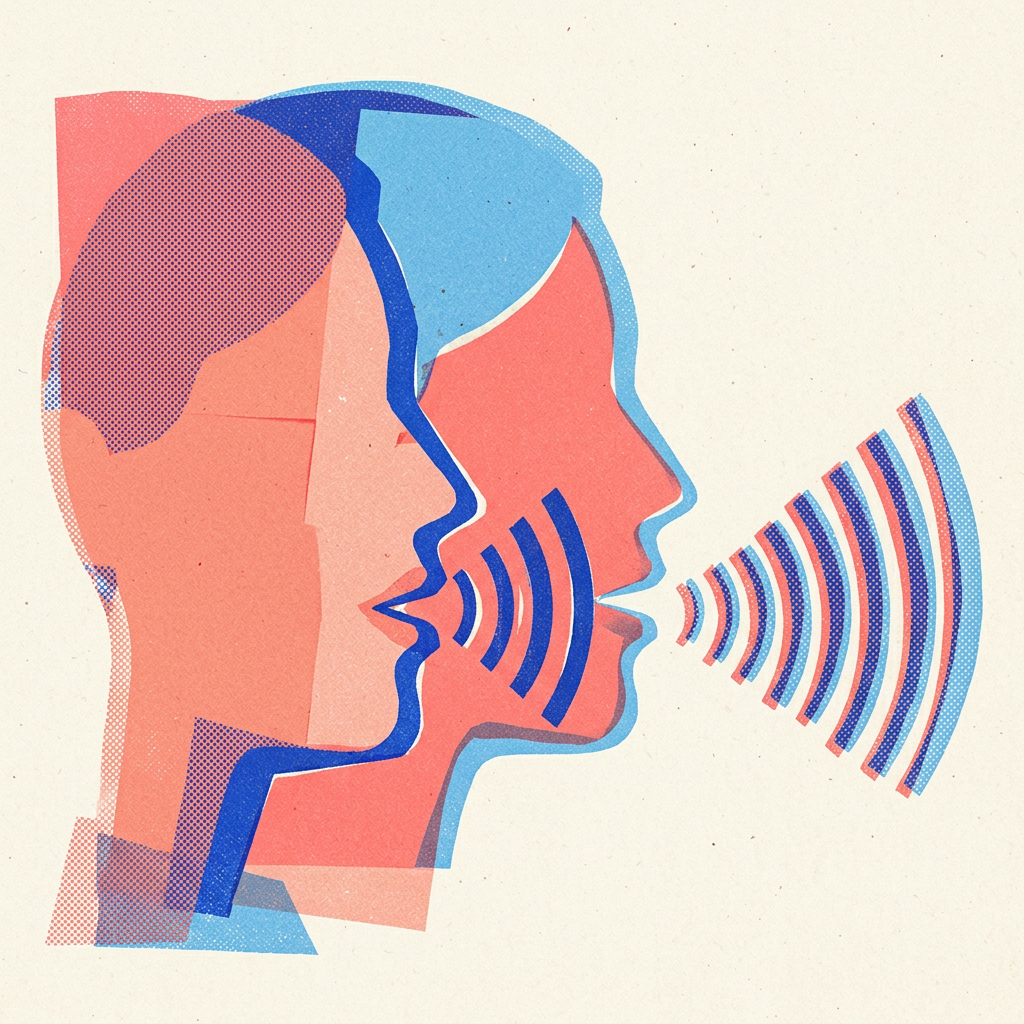
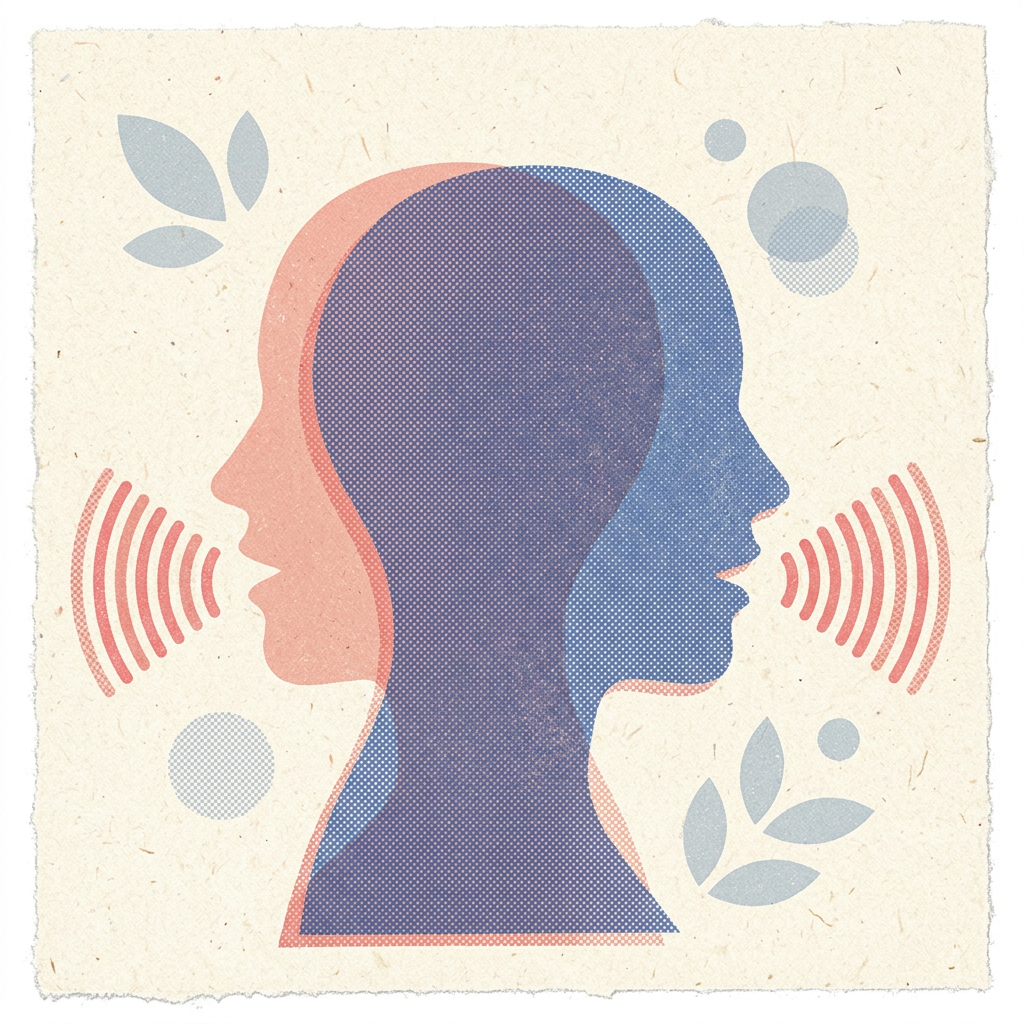
Enlarge hero title, put feature images on right, use muted overlapping-voices art, shorten step images

diff --git a/intro-fx.css b/intro-fx.css
@@ -31,7 +31,7 @@
 .fx-features .feature-grid { display: flex; flex-direction: column; gap: 28px; padding-bottom: 8vh; margin-top: 36px; }
 .fx-features .feature-card {
   position: sticky; top: calc(24px + var(--i) * 22px);
-  display: grid; grid-template-columns: minmax(0, 0.9fr) minmax(0, 1.1fr);
+  display: grid; grid-template-columns: minmax(0, 1.1fr) minmax(0, 0.9fr);
   min-height: 300px; padding: 0; border-radius: 26px; overflow: hidden;
   transform-origin: top center;
   transform: scale(calc(1 - var(--shrink, 0) * .06));
@@ -43,7 +43,7 @@
 .fx-ready .fx-features .feature-card[data-reveal].is-in { translate: 0 0; }
 .fx-features .feature-card.is-focus { border-color: var(--accent); box-shadow: 0 6px 0 var(--accent); }
 
-.feature-media { position: relative; overflow: hidden; background: var(--surface3); }
+.feature-media { position: relative; overflow: hidden; background: var(--surface3); order: 2; }
 .feature-media img { position: absolute; inset: 0; width: 100%; height: 100%; object-fit: cover; scale: 1.18; transition: scale 1.6s cubic-bezier(.2,.7,.2,1); }
 .feature-card.is-in .feature-media img { scale: 1; }
 .feature-card.is-focus .feature-media img { animation: fxDrift 9s ease-in-out infinite alternate; }
@@ -227,7 +227,7 @@
 .fx-steps[data-fx="e"] .step-body { width: min(360px, 100%); padding: 8px 8px 14px; }
 .fx-steps[data-fx="e"] .step-body > :not(.step-img) { padding: 0 10px; }
 .fx-steps[data-fx="e"] .step-img {
-  display: block; width: 100%; height: auto; aspect-ratio: 4 / 3; object-fit: cover;
+  display: block; width: 100%; height: auto; aspect-ratio: 16 / 9; object-fit: cover;
   border-radius: 14px; margin-bottom: 12px; background: var(--surface3);
 }
 .fx-steps[data-fx="e"] .step-item:nth-child(even) .step-img { border: 1px solid rgba(255,255,255,.12); }
@@ -290,7 +290,7 @@ body.is-authed .fx-switcher { display: none; }
   .steps-ring-num { font-size: 52px; }
 }
 @media (max-width: 640px) {
-  .fx-features .feature-card { position: relative; top: auto; grid-template-columns: minmax(0, .8fr) minmax(0, 1.2fr); min-height: 220px; transform: none; filter: none; }
+  .fx-features .feature-card { position: relative; top: auto; grid-template-columns: minmax(0, 1.2fr) minmax(0, .8fr); min-height: 220px; transform: none; filter: none; }
   .fx-features .feature-body { padding: 22px 18px 20px; }
   .fx-features .feature-num { top: 14px; right: 16px; font-size: 44px; }
   .fx-features .feature-icon { width: 44px; height: 44px; border-radius: 12px; }

diff --git a/intro.css b/intro.css
@@ -50,7 +50,7 @@ body.is-guest .authed-only { display: none !important; }
 .intro-lead { font-size: 15px; color: var(--text-sub); line-height: 1.8; margin-top: 10px; max-width: 560px; text-wrap: pretty; }
 
 .hero { display: flex; flex-direction: column; justify-content: center; gap: 40px; padding-top: 56px; min-height: calc(100svh - 64px); }
-.hero-title { font-size: clamp(36px, 5.4vw, 76px); font-weight: 800; letter-spacing: -0.04em; line-height: 1.08; color: var(--text); margin-top: 22px; }
+.hero-title { font-size: clamp(40px, 6vw, 84px); font-weight: 800; letter-spacing: -0.04em; line-height: 1.08; color: var(--text); margin-top: 22px; }
 .hero-title em { font-style: normal; color: var(--accent); }
 .hero-sub { font-size: clamp(16px, 1.6vw, 19px); color: var(--text-sub); line-height: 1.8; margin-top: 22px; max-width: 600px; text-wrap: pretty; }
 .hero-ctas { display: flex; flex-wrap: wrap; gap: 12px; margin-top: 28px; }
@@ -120,7 +120,7 @@ body.is-guest .authed-only { display: none !important; }
 .contact-wrap { display: grid; grid-template-columns: 1fr 1.3fr; gap: 28px; align-items: start; }
 .contact-form { background: var(--surface); border: 1px solid var(--border2); border-radius: 20px; box-shadow: 0 4px 0 var(--border2); padding: 22px; display: flex; flex-direction: column; gap: 14px; }
 
-/* ── Form fields (contact + auth) ── */
+/* ── Form fields (contact + auth) ─�� */
 .field { display: flex; flex-direction: column; gap: 6px; }
 .field label { font-size: 13px; font-weight: 600; color: var(--text); }
 .field input, .field textarea {
